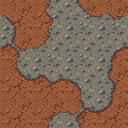
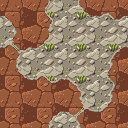
Big map round 1b: warm ground from the owner's example (8 tilesets + temple/arena variants, 140 gen), forest on cliff tops
Claude-Session: https://claude.ai/code/session_01Y3xh1UrjSLruRTRK75Y2Tg

diff --git a/tools/bigmap/assemble.py b/tools/bigmap/assemble.py
@@ -51,6 +51,17 @@ FULL = {}  # terrain -> (sheet key, pos)
 for (lo, up) in SETS:
     FULL.setdefault(lo, ((lo, up), STD[(False,) * 4])); FULL.setdefault(up, ((lo, up), STD[(True,) * 4]))
 FULL[GRASS] = ((PATH, GRASS), STD[(True,) * 4])
+# optional full-tile variants (create_tiles_pro): file var_<terrain>.png (8 per row) + keep list
+import os
+VAR = {}
+for terr, keep in ((STONE, [0, 1, 2, 3, 4, 6, 8, 10, 11, 12, 14, 15]), (ARENA, None)):
+    f = f"{TILES}/var_{terr if terr != STONE else 'temple'}.png"
+    if os.path.exists(f):
+        vs = Image.open(f).convert("RGBA")
+        n = (vs.width // T) * (vs.height // T)
+        keep = keep if keep is not None else json.load(open(f[:-4] + "_keep.json")) if os.path.exists(f[:-4] + "_keep.json") else list(range(n))
+        VAR[terr] = [vs.crop(((i % (vs.width // T)) * T, (i // (vs.width // T)) * T, (i % (vs.width // T)) * T + T, (i // (vs.width // T)) * T + T)) for i in keep]
+VAR_RATE = 0.35
 cliff_sheet = Image.open(f"{TILES}/t5_rock_cliff.png").convert("RGBA")
 CLIFF_TILES = []
 for line in open(f"{TILES}/t5_meta.txt"):
@@ -108,6 +119,10 @@ for y in range(N):
             # free variety: mirror full tiles (stone bricks only left-right) so big areas don't repeat
             h = (x * 73856093 ^ y * 19349663) & 3
             img = sheets[key].crop((pos[0], pos[1], pos[0] + T, pos[1] + T))
+            r = random.Random(x * 1009 + y * 7919)
+            if c[0] in VAR and r.random() < VAR_RATE:
+                k = r.randrange(len(VAR[c[0]]))
+                out.paste(VAR[c[0]][k], (x * T, y * T)); row.append(f"var_{c[0]}:{k}"); continue
             if c[0] not in (GRASS, ROCK, THICKET): h = 0
             if h & 1: img = img.transpose(Image.FLIP_LEFT_RIGHT)
             if h & 2 and c[0] != STONE: img = img.transpose(Image.FLIP_TOP_BOTTOM)

diff --git a/docs/pixellab-budget.md b/docs/pixellab-budget.md
@@ -193,3 +193,19 @@ create_topdown_tileset mode=pro tile 32 view low top-down + palette data/style/f
 | 2026-11-21 | พื้นหิน ↔ ลานบอส | create_topdown_tileset pro 32 | 15 | 6b54c073-856a-4e17-90f8-9cd1c074c9bd |
 | 2026-11-21 | สระบัว ↔ หญ้า (ตลิ่ง 0.25) | create_topdown_tileset pro 32 | 15 | 1ca7d188-a10b-4112-b33a-b42c04adea6f |
 | | **รวมจริงรอบ 1** | | **120** | ตรงกับที่ประเมิน · ภาพตรวจ docs/preview/bigmap/round1_review.png |
+
+## แผนที่ใหญ่ รอบ 1b: เจนพื้นใหม่ตามภาพตัวอย่าง (เจ้าของ 2026-11-21: "ตัวอย่างพื้น" → "เจนพื้นใหม่ตามสีและแสงตัวอย่าง"; ข้อ 3/6 → "เจนพื้นแบบสุ่มหลายแบบ"; ข้อ 5 → "ป่าทึบบนหน้าผา 0 gen")
+ชุดสี data/style/bigmap_warm_palette.json (สุ่มจาก docs/reference/bigmap_ground_example.png) · create_topdown_tileset pro 32 × 8 = 120 + create_tiles_pro แบบสุ่ม 4 ชุด × 10 = 40 · **ประเมินก่อนเจน 160 gen** · ใช้แล้วทั้งงาน 120 → หลังรอบนี้ ≤ 280 จากเพดาน 1,000 · เจนชุดแรก (ทาง↔หญ้า) ให้ดูก่อน แล้วค่อยต่อชุดอื่น
+| วันที่ | งาน | เครื่องมือ | gen | job |
+|---|---|---|---|---|
+| 2026-11-21 | ทดลอง ทางทราย ↔ หญ้าอุ่น (เจ้าของ: "ผ่าน เจนอีก 7 ชุดต่อเลย") | create_topdown_tileset pro 32 | 15 | 69be8185-af7c-4fae-a1d6-54a8fe2a9604 |
+| 2026-11-21 | หญ้า ↔ ดงไม้ทึบ | create_topdown_tileset pro 32 | 15 | fe08c377-77eb-4182-bb83-fb82d2f59054 |
+| 2026-11-21 | ลำธาร ↔ หญ้า | create_topdown_tileset pro 32 | 15 | 8bed3572-7336-4a83-8e49-ae22855de1a7 |
+| 2026-11-21 | หญ้า ↔ พื้นหินเนิน | create_topdown_tileset pro 32 | 15 | 50fe396f-37f5-46ee-8daa-8e969f1fdc5e |
+| 2026-11-21 | หญ้า ↔ ลานหินวัด | create_topdown_tileset pro 32 | 15 | 21df29c5-d1e4-4607-8884-0a08bc524254 |
+| 2026-11-21 | สระบัว ↔ หญ้า | create_topdown_tileset pro 32 | 15 | 8cd37576-109f-4990-8f2d-f9b89f589a4f |
+| 2026-11-21 | พื้นหิน ↔ หน้าผา บนเป็นป่าทึบ (ข้อ 5 "ป่าทึบบนหน้าผา" ทำในชุดนี้เลย) | create_topdown_tileset pro 32 | 15 | e221b65c-10be-44c2-aa51-31ebfd685c40 |
+| 2026-11-21 | พื้นหิน ↔ ลานบอส | create_topdown_tileset pro 32 | 15 | ec614dc9-79ac-4338-bd99-12893659f33c |
+| 2026-11-21 | พื้นสุ่ม ลานหินวัด 16 แบบ (ใช้ 12) | create_tiles_pro style 32 | 10 | 62263e19-87b4-45d1-9438-43fbd24e60e8 |
+| 2026-11-21 | พื้นสุ่ม ลานบอส 16 แบบ (ใช้ 13) | create_tiles_pro style 32 | 10 | 3ef05e9a-a0ea-46ab-b59f-4fc70e463d62 |
+| | **รวมจริงรอบ 1b** | | **140** | ต่ำกว่าประเมิน 160 (พื้นสุ่มทำ 2 ชุดที่เจ้าของชี้ ไม่ทำหญ้า/หิน) · **รวมทั้งงานแผนที่ 260 / 1,000** · ภาพตรวจ docs/preview/bigmap/round1b_review.png |
